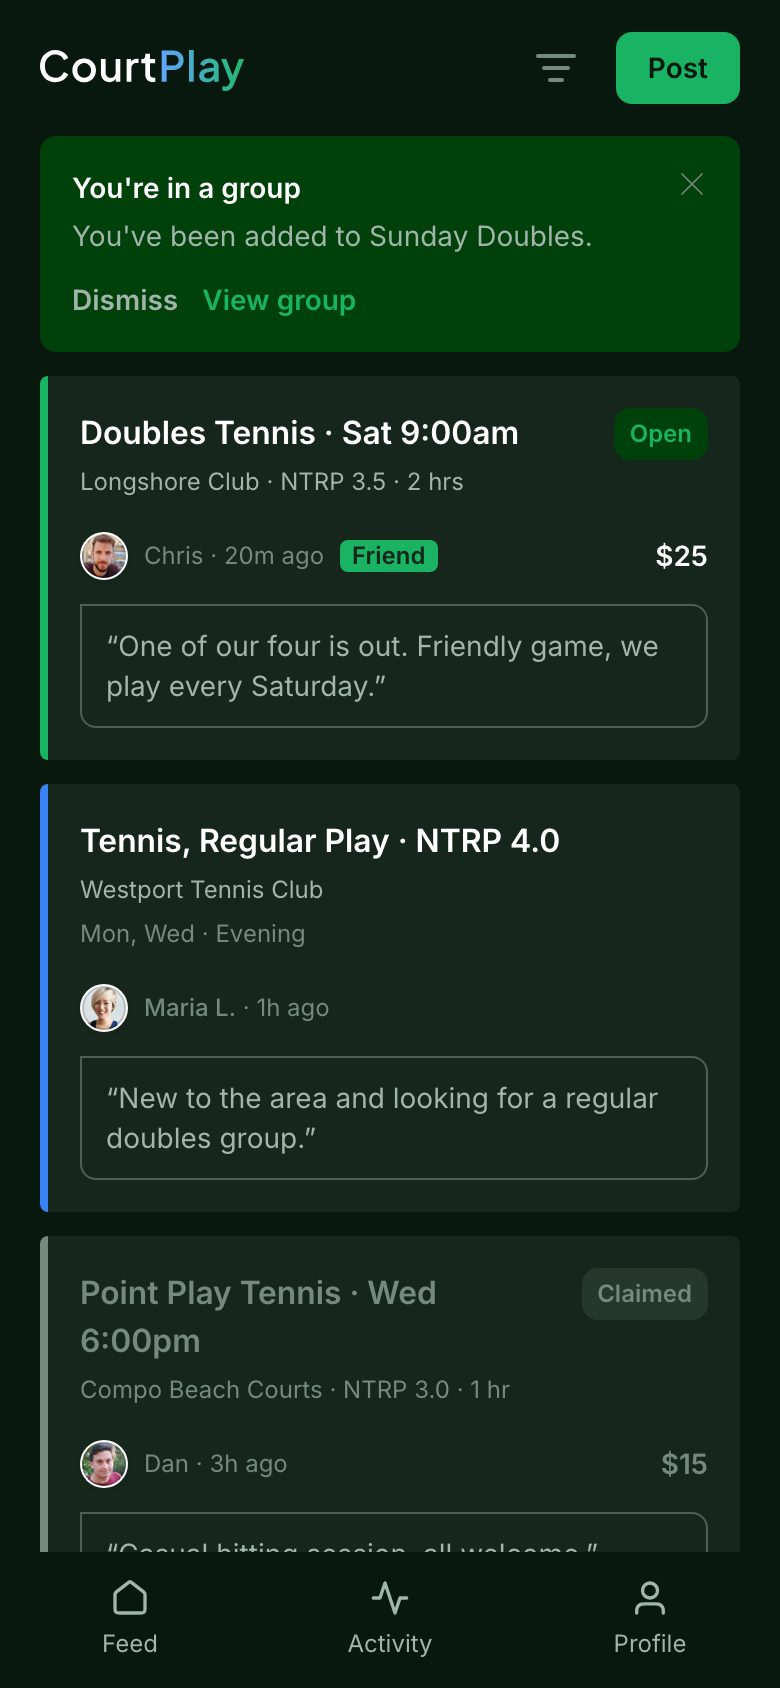
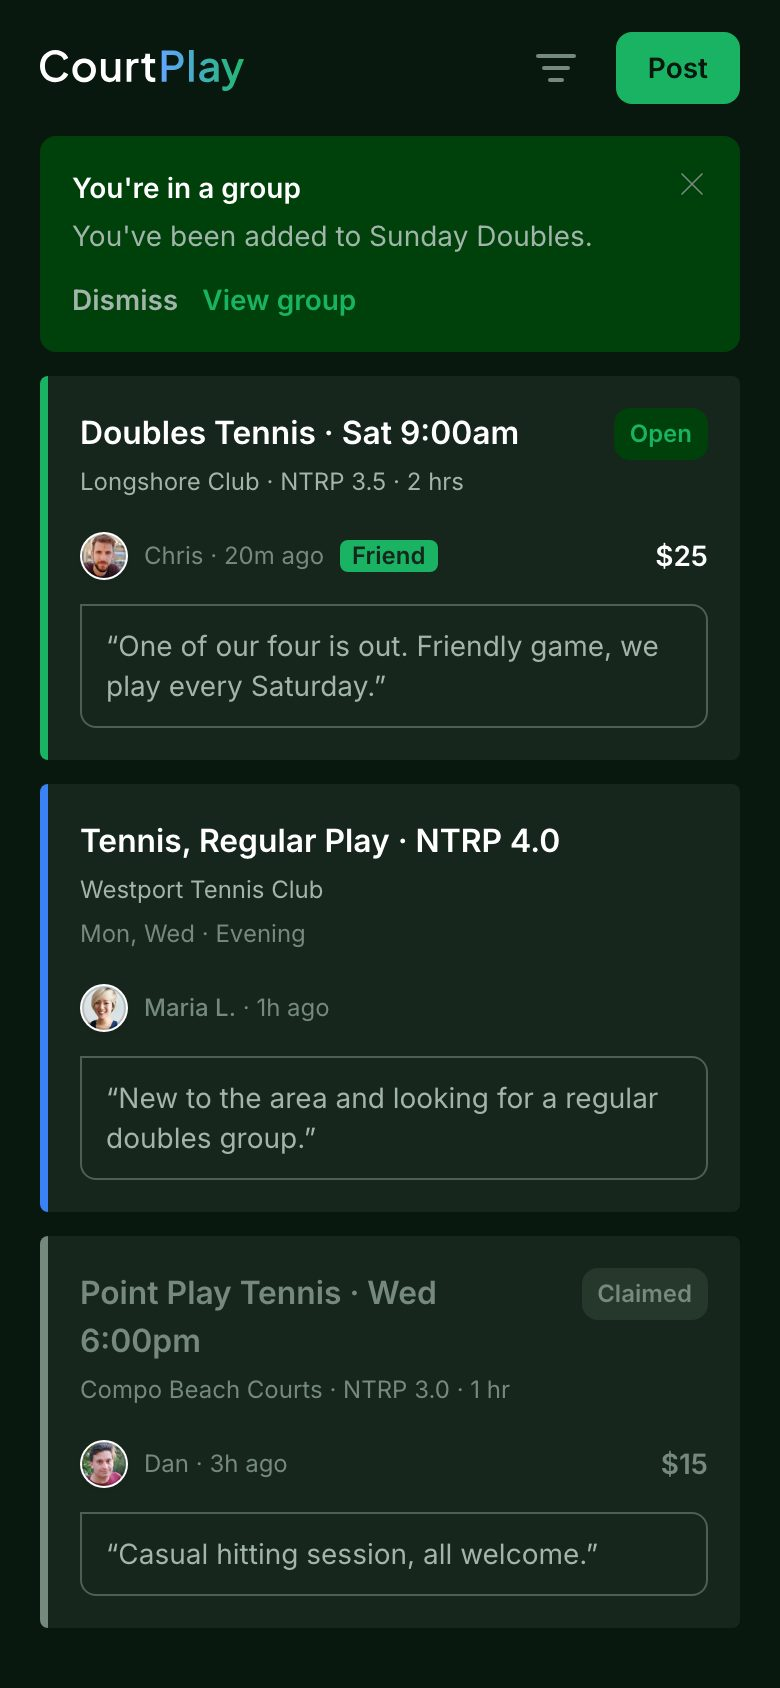
Show the claimed post whole: hide the tab bar in the feed capture (#262)
The third card was not cropped by the layout — it was cropped by the app. The
tab bar is drawn OVER it from y=776, so the last 38px of that card were bar
pixels and no amount of room on the welcome screen could recover them.

So the feed screenshot is now captured with the bar hidden, the same way the
Beta pill and the build id already are, and the cards band runs to the card's
own bottom edge at 814.

This costs the tutorial nothing. Slide 1 crops the screenshot well above where
the bar sits, so it was never visible there — the settled frame is unchanged.
The hiding is scoped to the feed screen rather than applied globally, because
Activity and Profile both show their bar and should keep it.

Two earlier attempts at this were wrong and are worth not repeating: extending
the band to 814 while the bar was still in the image put three tab-bar icons
under the posts, and sizing the stack to fit the room above the copy made the
posts start small and grow.

Claude-Session: https://claude.ai/code/session_018r2oK9BRqUaW7Q9zLFLBPn

diff --git a/src/demo/demo-entry.tsx b/src/demo/demo-entry.tsx
@@ -47,13 +47,22 @@ localStorage.setItem("courtsub_push_prompt_dismissed", "true");
 // bands at the top and bottom of the tutorial page, which was the wrong end of
 // the problem: those bands are the tutorial's own body showing through, and
 // blacking out bg-primary took the app's background out of the screenshots too.
+const id = new URLSearchParams(location.search).get("screen") ?? "";
+
 const demoStyle = document.createElement("style");
 demoStyle.textContent = `
     [data-beta-tag], [data-build-id] { display: none; }
+
+    /* The feed screenshot only: its tab bar is drawn OVER the third post, and
+       the welcome screen shows that post on its own before the tutorial starts.
+       Hiding the bar here is what lets the post be whole there. Nothing is lost
+       in the tutorial — slide 1 crops the screenshot well above the bar, so it
+       was never visible. Every other screen keeps its bar, which is why this is
+       scoped rather than global: Activity and Profile both show one. */
+    ${id === "feed" ? "nav { display: none; }" : ""}
 `;
 document.head.appendChild(demoStyle);
 
-const id = new URLSearchParams(location.search).get("screen") ?? "";
 const screen = DEMO_SCREENS[id];
 
 const root = createRoot(document.getElementById("root")!);

diff --git a/src/lib/tutorial-intro.ts b/src/lib/tutorial-intro.ts
@@ -34,16 +34,16 @@ export const STEP1 = {
     /** The first feed card's top edge. Everything above it is header + banner. */
     cardsTop: 188,
     /**
-     * Where the tab bar starts, which is as far down the third card as this
-     * screenshot goes.
+     * The third card's own bottom edge.
      *
-     * Extending to the card's own bottom edge (814) was tried and reverted: the
-     * bar is painted OVER that card, so the extra 38px are bar, not card. The
-     * welcome screen showed three tab-bar icons floating under the posts. The
-     * third card's last line is not recoverable from this image — it would take
-     * a step-1 capture where the card clears the bar.
+     * The app draws its tab bar over that card, from 776 — so this used to stop
+     * there and the card came out cropped anywhere the band was shown on its
+     * own. The feed screenshot is now captured with the bar hidden (see
+     * demo-entry), which costs the tutorial nothing because slide 1 crops well
+     * above where the bar would be, and gives the welcome screen a complete
+     * third post.
      */
-    cardsBottom: 776,
+    cardsBottom: 814,
 } as const;
 
 export type BandName = "top" | "cards" | "bottom";
